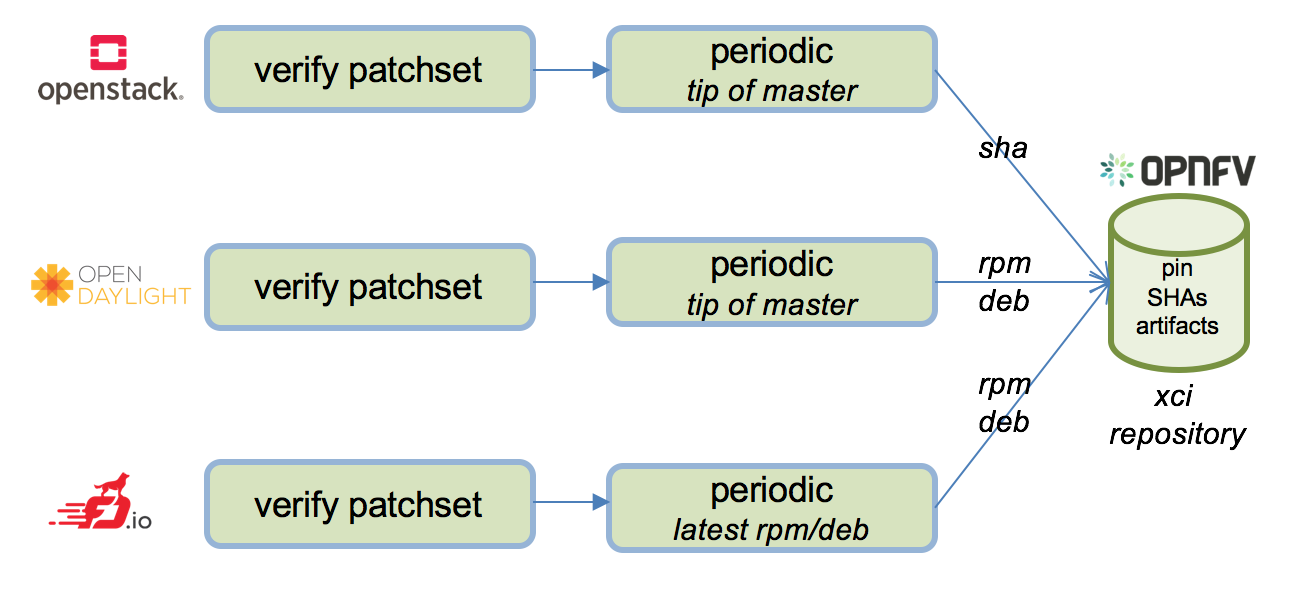
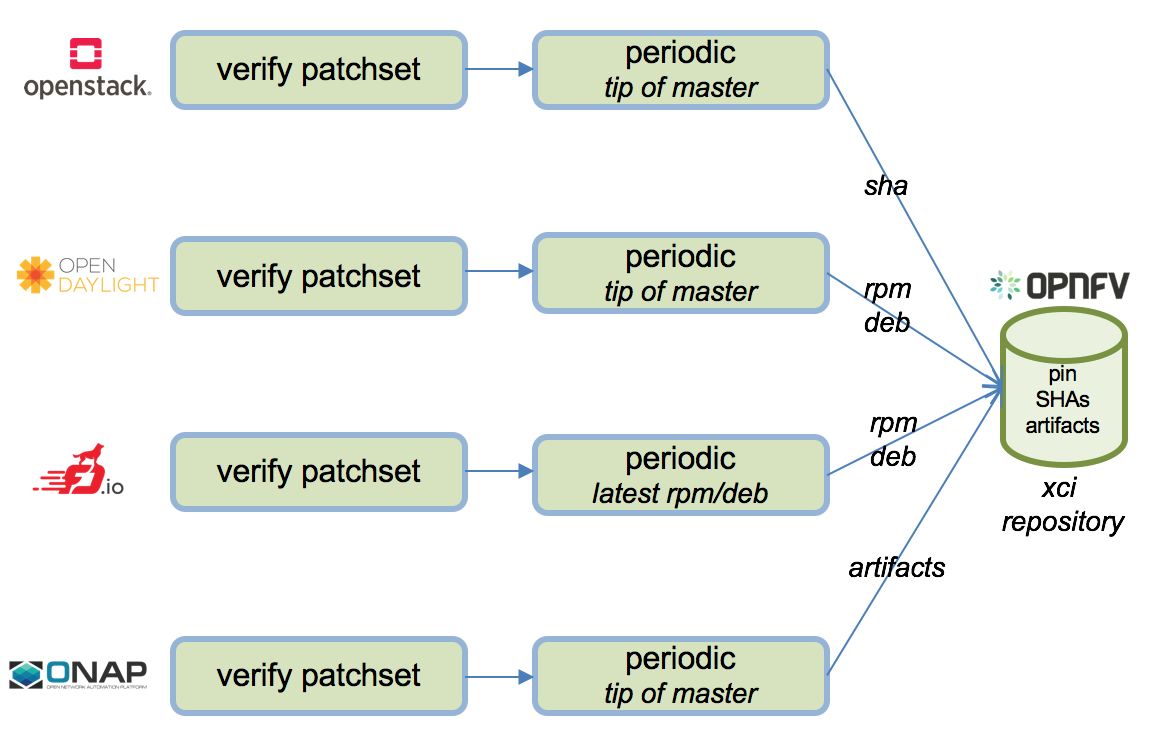
docs: Add ONAP into the diagram

diff --git a/docs/xci-overview.rst b/docs/xci-overview.rst
@@ -186,8 +186,12 @@ finding working versions of upstream components from their master branches to pi
 them for development purposes.
 
 .. image:: images/pipelines-upstream.png
-   :height: 240px
+   :height: 320px
    :align: center
+
+Please note that the types and scope of testing done by XCI vary for different
+projects and the work for enabling pipelines is still in progress which heavily
+depends on the readiness of the upstream projects.
 
 Pipelines for OPNFV Scenarios
 -----------------------------
@@ -272,3 +276,4 @@ is the scenario itself.
 .. image:: images/pipelines-parallel.png
    :height: 480px
    :align: center
+
